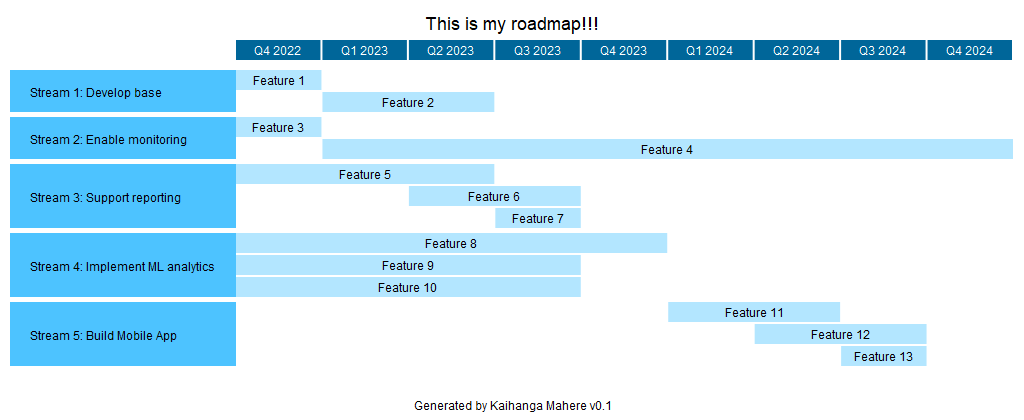
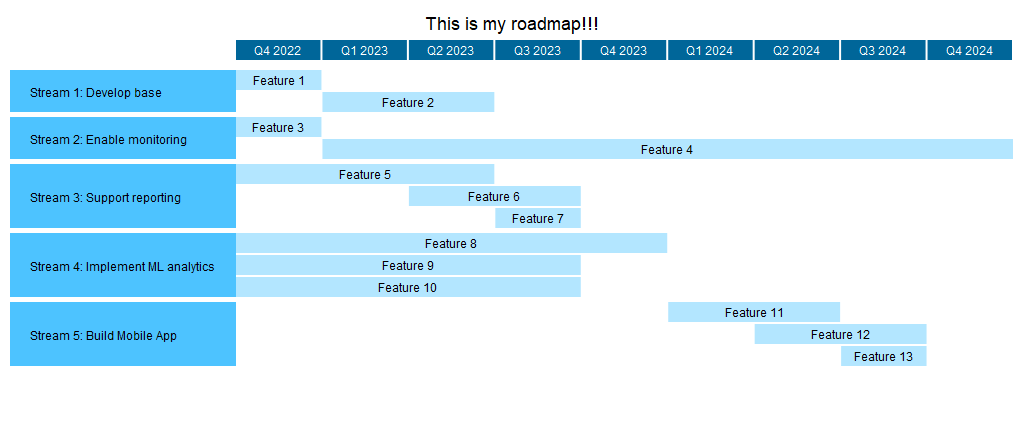
change footer y pos

diff --git a/kaihanga.py b/kaihanga.py
@@ -622,14 +622,17 @@ class Mahere:
             footer_width, footer_height = self.__painter.get_text_dimension(
                 self.footer_text
             )
+            footer_y_pos = self.__roadmap_dict.get_recommended_height()
             self.__painter.draw_text(
                 (self.__width / 2) - footer_width / 2,
-                self.__height - 10,
+                # self.__height - 10,
+                footer_y_pos,
                 self.footer_text,
             )
             self.__roadmap_dict.set_footer_coordinates(
                 (self.__width / 2) - footer_width / 2,
-                self.__height - 10,
+                # self.__height - 10,
+                footer_y_pos,
                 footer_width,
                 footer_height,
             )
@@ -645,7 +648,6 @@ class Mahere:
 
         self.__painter.set_colour(group.get("colour"))
         self.__painter.draw_box(x, y, group_total_width, group_total_height)
-        # self.__roadmap_dict.__set_group_coordinates(x, y, group_total_width, group_total_height)
 
         self.__painter.set_colour(self.group_text_colour)
         x_pos, y_pos = self.__painter.get_display_text_position(
@@ -727,7 +729,6 @@ class Mahere:
                             this_period,
                         ) = self.__get_yearly_dates(timeline_positions, task, z)
 
-                    # print (f"{task_text},{task_start_date}-{task_end_date} = this_period: {this_period}, task_start_period: {task_start_period}, task_end_period: {task_end_period}")
                     if (
                         task_start_period <= this_period
                         and task_end_period >= this_period
@@ -738,8 +739,6 @@ class Mahere:
                             task_box_width,
                             task_box_height,
                         ) = self.__roadmap_dict.get_timeline_item_position(z)
-                        # task_box_x_pos = timeline_positions[z][0]
-                        # task_box_width = timeline_positions[z][2]
                         if bar_start_x_pos == 0:
                             bar_start_x_pos = task_box_x_pos
 
@@ -918,3 +917,5 @@ class Mahere:
 
         # Save
         self.__painter.save_surface()
+
+        return self.__roadmap_dict.get_recommended_height()

diff --git a/my_roadmap.py b/my_roadmap.py
@@ -1,6 +1,6 @@
 from kaihanga import Mahere
 
-my_roadmap = Mahere(1024, 420, "my_roadmap.png")
+my_roadmap = Mahere(1024, 421, "my_roadmap.png")
 
 my_roadmap.title_text = "This is my roadmap!!!"
 # my_roadmap.timeline_fill_colour = "#527a7a"
@@ -59,4 +59,4 @@ my_roadmap.add_task(group5, "Feature 13", "2024-07-24", "2024-08-24")
 # my_roadmap.add_task(group5, "Feature 12", "2024-04-24", "2024-06-24", "#ffcccc")
 # my_roadmap.add_task(group5, "Feature 13", "2024-07-24", "2024-08-24", "#ffcccc")
 
-my_roadmap.render()
+print(f"Recommended height: {my_roadmap.render()}")
